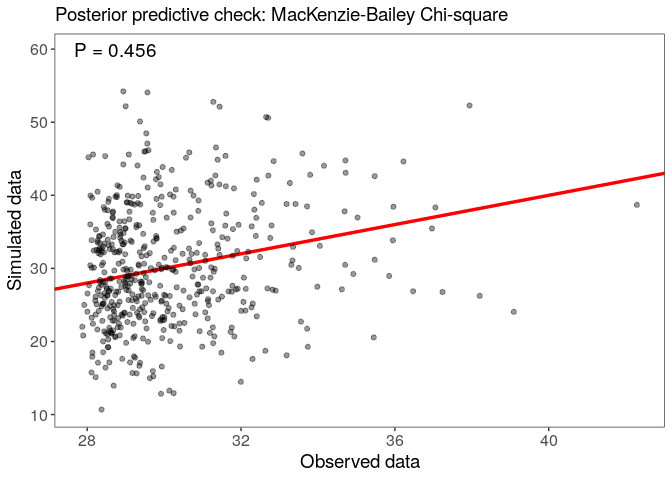
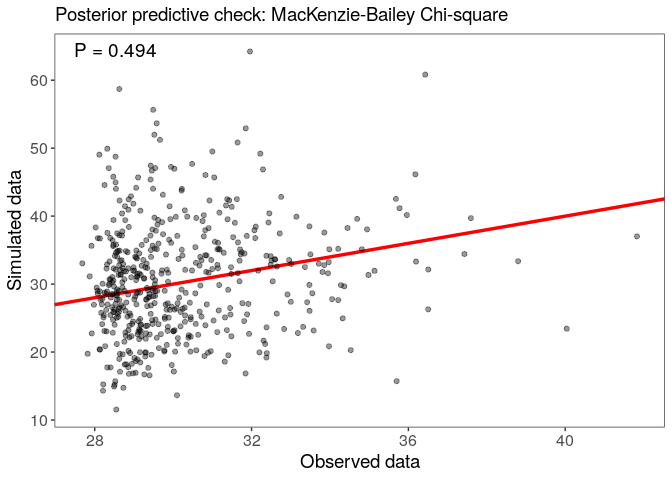
Update README and try to fix compiler on travis

diff --git a/README.md b/README.md
@@ -1,5 +1,9 @@
 # ubms: Unmarked Bayesian Models with Stan
 
+[![Build
+Status](https://travis-ci.org/kenkellner/ubms.svg?branch=master)](https://travis-ci.org/kenkellner/ubms)
+[![codecov](https://codecov.io/gh/kenkellner/ubms/branch/master/graph/badge.svg)](https://codecov.io/gh/kenkellner/ubms)
+
 In-development `R` package for fitting Bayesian hierarchical models of
 animal occurrence and abundance. The package has a formula-based
 interface compatible with
@@ -80,7 +84,7 @@ options(mc.cores=3) #number of parallel cores to use
     ## (Intercept)    0.383 0.0592 0.267 0.500  5807 1.000
     ## x2             0.586 0.0629 0.463 0.714  6628 0.999
     ## 
-    ## WAIC: 2266.865
+    ## LOOIC: 2267.163
 
 Examine residuals for occupancy and detection submodels (following
 [Wright et al. 2019](https://doi.org/10.1002/ecy.2703)). Each panel
@@ -100,8 +104,8 @@ the MacKenzie-Bailey chi-square test:
 ```
 
     ## MacKenzie-Bailey Chi-square 
-    ## Point estimate = 30.112
-    ## Posterior predictive p = 0.456
+    ## Point estimate = 30.185
+    ## Posterior predictive p = 0.494
 
 ``` r
 plot(fm_fit)
